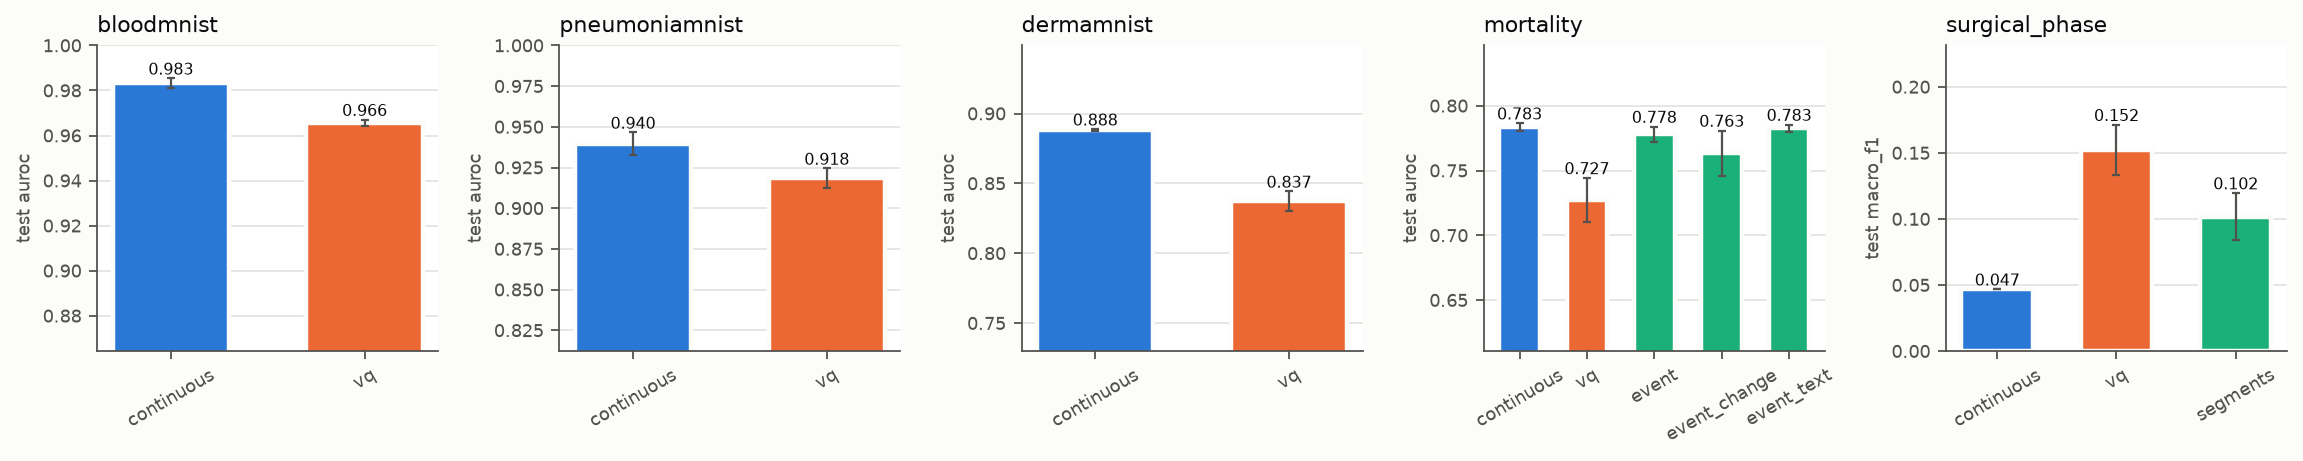
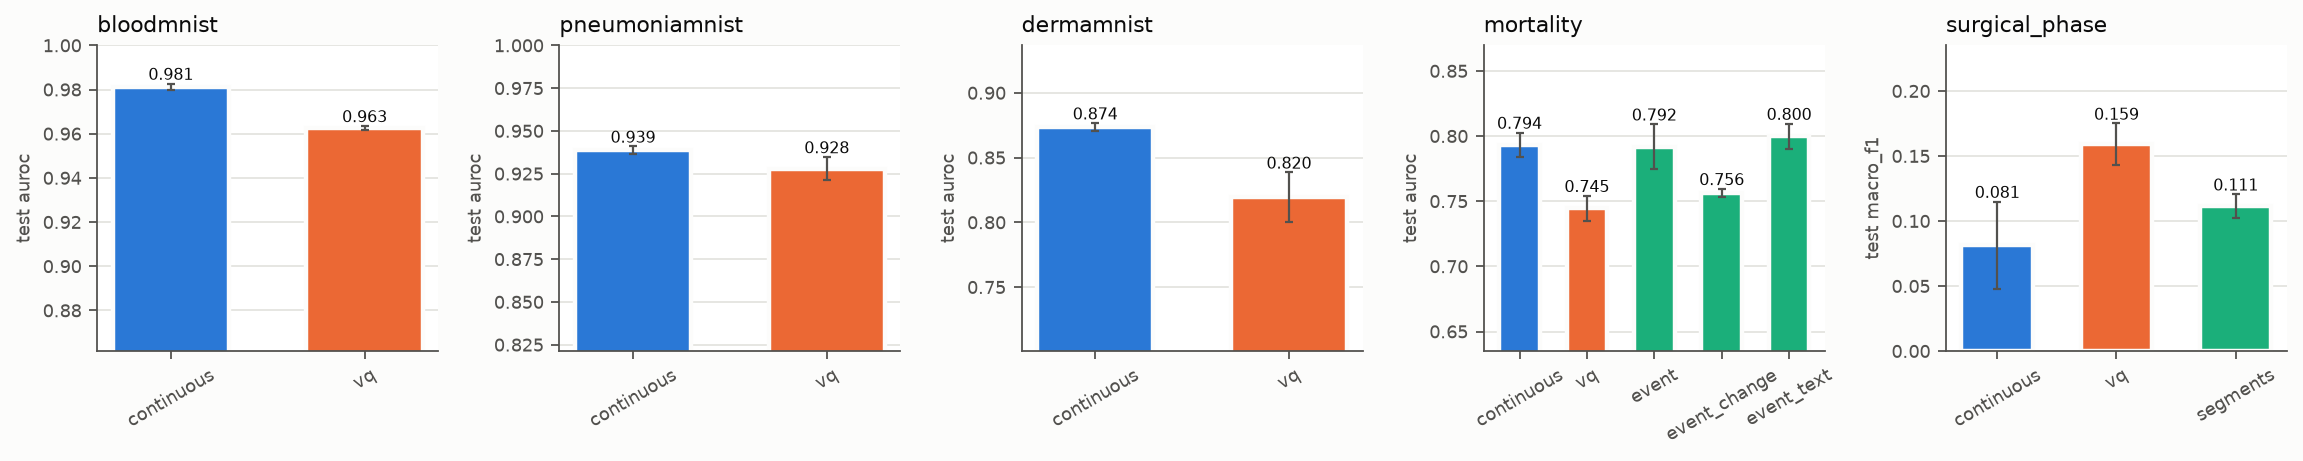
feat: class-weighted loss and validation-chosen threshold for downstream tasks; re-run results

diff --git a/demo/index.html b/demo/index.html
@@ -279,7 +279,7 @@ function imageView(d, title) {
 function predView(d) {
   const p = d.prediction;
   if (!p) return `<div class="card muted">The classifier for this image type is not trained yet (run <code>scripts/train_demo_classifiers.py</code>).</div>`;
-  const top = p.probs[0], ok = d.label ? top.label === d.label : null;
+  const top = p.probs.find(r => r.label === p.predicted) || p.probs[0], ok = d.label ? top.label === d.label : null;
   return `<div class="card"><h3>Classifier: reading only the ${p.n_tokens} VQ tokens</h3>
     <div class="pred">
       <div class="pred-main">

diff --git a/src/medical_tokenizer/downstream/train.py b/src/medical_tokenizer/downstream/train.py
@@ -11,7 +11,7 @@ import torch.nn.functional as F
 
 from ..utils.device import device, to_device
 from .dataset import UnifiedTokenDataset, length_bucketed_batches
-from .tasks import DownstreamTask, metrics
+from .tasks import DownstreamTask, balanced_class_weight, metrics, pick_threshold
 
 
 @torch.no_grad()
@@ -29,9 +29,12 @@ def predict(model, ds: UnifiedTokenDataset, task: str, bs: int = 128) -> tuple[n
 
 
 def fit(model, data: dict[str, dict], tasks: dict[str, DownstreamTask], epochs: int = 20, batch_size: int = 64,
-        lr: float = 5e-4, weight_decay: float = 0.01, patience: int = 5, seed: int = 0, log=print) -> dict:
+        lr: float = 5e-4, weight_decay: float = 0.01, patience: int = 5, seed: int = 0,
+        class_weight: str | None = None, threshold: str | None = None, log=print) -> dict:
     """data: task -> {"train": ds, "val": ds, "test": ds}. Minibatches of all tasks are interleaved each epoch.
-    Model selection: mean validation select_metric across tasks; the best state is restored before testing."""
+    Model selection: mean validation select_metric across tasks; the best state is restored before testing.
+    class_weight="balanced": cross-entropy weighted by inverse training-class frequency (overrides task.class_weight).
+    threshold="val_balanced_acc": binary tasks are tested at the cut-off that maximises validation balanced accuracy."""
     rng = np.random.default_rng(seed)
     torch.manual_seed(seed)
     dev = device()
@@ -39,6 +42,12 @@ def fit(model, data: dict[str, dict], tasks: dict[str, DownstreamTask], epochs: 
     opt = torch.optim.AdamW(model.parameters(), lr=lr, weight_decay=weight_decay)
     steps = epochs * sum(math.ceil(len(d["train"]) / batch_size) for d in data.values())
     sched = torch.optim.lr_scheduler.OneCycleLR(opt, max_lr=lr, total_steps=max(steps, 1), pct_start=0.1)
+    if class_weight not in (None, "balanced"):
+        raise ValueError(f"class_weight must be null or 'balanced', got {class_weight!r}")
+    if threshold not in (None, "val_balanced_acc"):
+        raise ValueError(f"threshold must be null or 'val_balanced_acc', got {threshold!r}")
+    weights = {k: balanced_class_weight(d["train"].labels(), tasks[k].n_classes) if class_weight == "balanced"
+               else tasks[k].class_weight for k, d in data.items()}
     best, best_state, bad, hist = -math.inf, None, 0, []
     for ep in range(epochs):
         model.train()
@@ -50,7 +59,7 @@ def fit(model, data: dict[str, dict], tasks: dict[str, DownstreamTask], epochs: 
         for k, idx in plan:
             ds = data[k]["train"]
             b = to_device(ds.collate([ds[i] for i in idx]), dev)
-            w = tasks[k].class_weight
+            w = weights[k]
             loss = F.cross_entropy(model(b, k), b["y"],
                                    weight=None if w is None else torch.tensor(w, dtype=torch.float32, device=dev))
             opt.zero_grad()
@@ -74,7 +83,9 @@ def fit(model, data: dict[str, dict], tasks: dict[str, DownstreamTask], epochs: 
                 break
     if best_state is not None:
         model.load_state_dict(best_state)
-    test = {k: metrics(tasks[k], *predict(model, d["test"], k)) for k, d in data.items()}
+    thr = {k: pick_threshold(tasks[k], *predict(model, d["val"], k)) if threshold else None for k, d in data.items()}
+    test = {k: metrics(tasks[k], *predict(model, d["test"], k), threshold=thr[k]) for k, d in data.items()}
     model.cpu()
     return {"best_val_score": best, "test": test, "history": hist, "epochs_run": len(hist),
+            "class_weight": weights, "threshold": thr,
             "params": int(sum(p.numel() for p in model.parameters()))}

diff --git a/scripts/modal_rerun.py b/scripts/modal_rerun.py
@@ -5,6 +5,9 @@
     # run the four plans of configs/rerun_gpu/ in parallel, then pull the results back
     modal run scripts/modal_rerun.py::rerun
     python scripts/modal_rerun.py merge          # untar logs/modal_results/*.tar over experiments/
+    # downstream-only re-run on the existing tokenizers, then merge just those results
+    modal run scripts/modal_rerun.py::rerun --only ds_image,ds_mortality,ds_phase
+    python scripts/modal_rerun.py merge ds_image ds_mortality ds_phase
 
 Each job unpacks data + experiments onto the container's local disk, runs one plan with
 `medical_tokenizer.pipeline`, and writes a tarball of every file it created or changed
@@ -21,7 +24,8 @@ import modal
 
 ROOT = os.path.dirname(os.path.dirname(os.path.abspath(__file__)))
 VOL = modal.Volume.from_name("medtok", create_if_missing=True)
-JOBS = {"image": "gpu", "mortality": "gpu", "phase": "gpu", "evaluate": "cpu"}   # plan -> container kind
+JOBS = {"image": "gpu", "mortality": "gpu", "phase": "gpu", "evaluate": "cpu",   # plan -> container kind
+        "ds_image": "gpu", "ds_mortality": "gpu", "ds_phase": "gpu"}               # downstream-only (no tokenizer training)
 
 image = (
     modal.Image.debian_slim(python_version="3.12")
@@ -81,7 +85,7 @@ def upload():
 
 @app.local_entrypoint()
 def rerun(only: str = ""):
-    plans = [p for p in JOBS if not only or p in only.split(",")]
+    plans = [p for p in JOBS if p in only.split(",")] if only else [p for p in JOBS if not p.startswith("ds_")]
     calls = [(run_gpu if JOBS[p] == "gpu" else run_cpu).spawn(p) for p in plans]
     for p, c in zip(plans, calls):
         try:
@@ -99,14 +103,14 @@ def rerun(only: str = ""):
             print(f"{p}: no results ({type(e).__name__}: {e})", flush=True)
 
 
-def merge() -> None:
+def merge(plans: list[str] | None = None) -> None:
     d = os.path.join(ROOT, "logs", "modal_results")
-    for p in JOBS:
+    for p in plans or JOBS:
         f = os.path.join(d, f"{p}.tar")
         if os.path.exists(f):
             _sh(f"cd {ROOT} && tar -xf {f}")
             print("merged", p)
 
 
-if __name__ == "__main__" and sys.argv[1:] == ["merge"]:
-    merge()
+if __name__ == "__main__" and sys.argv[1:2] == ["merge"]:
+    merge(sys.argv[2:])          # e.g. `merge ds_image ds_mortality ds_phase`; no names = every plan

diff --git a/src/medical_tokenizer/downstream/tasks.py b/src/medical_tokenizer/downstream/tasks.py
@@ -38,12 +38,34 @@ TASKS = {
 }
 
 
-def metrics(task: DownstreamTask, y: np.ndarray, logits: np.ndarray) -> dict:
+def balanced_class_weight(y: np.ndarray, n_classes: int) -> list[float]:
+    """n / (K * count_c) from the training labels, so every class carries the same total loss
+    (sklearn's class_weight="balanced"). Classes absent from training get weight 0."""
+    counts = np.bincount(y, minlength=n_classes).astype(float)
+    return [len(y) / (n_classes * c) if c else 0.0 for c in counts]
+
+
+def pick_threshold(task: DownstreamTask, y: np.ndarray, logits: np.ndarray) -> float | None:
+    """Binary tasks: the P(class 1) cut-off that maximises balanced accuracy (Youden's J) on the given
+    split -- call it on validation, never on test. Multiclass tasks keep argmax (returns None)."""
+    if task.kind != "binary" or len(np.unique(y)) < 2:
+        return None
+    from sklearn.metrics import roc_curve
+    p1 = torch.softmax(torch.as_tensor(logits, dtype=torch.float32), -1).numpy()[:, 1]
+    fpr, tpr, thr = roc_curve(y, p1)
+    return float(min(thr[np.argmax(tpr - fpr)], 1.0))
+
+
+def metrics(task: DownstreamTask, y: np.ndarray, logits: np.ndarray, threshold: float | None = None) -> dict:
+    """Threshold-free metrics (AUROC, AUPRC) use the probabilities; acc / balanced_acc / macro_f1 use argmax,
+    or for binary tasks `P(class 1) >= threshold` when a (validation-chosen) threshold is given."""
     p = torch.softmax(torch.as_tensor(logits, dtype=torch.float32), -1).numpy()
-    pred = p.argmax(1)
+    pred = (p[:, 1] >= threshold).astype(int) if threshold is not None and task.kind == "binary" else p.argmax(1)
     out = {"acc": float((pred == y).mean()), "balanced_acc": float(balanced_accuracy_score(y, pred)),
            "macro_f1": float(f1_score(y, pred, average="macro", labels=np.arange(task.n_classes), zero_division=0)),
            "n": int(len(y))}
+    if threshold is not None and task.kind == "binary":
+        out["threshold"] = float(threshold)
     if task.kind == "binary":
         if len(np.unique(y)) == 2:
             out["auroc"] = float(roc_auc_score(y, p[:, 1]))

diff --git a/scripts/train_demo_classifiers.py b/scripts/train_demo_classifiers.py
@@ -43,11 +43,11 @@ def train(task_name: str, seed: int = 0) -> None:
     t0 = time.time()
     res = fit(model, data, {task_name: task}, epochs=tr.get("epochs", 20), batch_size=tr.get("batch_size", 64),
               lr=tr.get("lr", 5e-4), weight_decay=tr.get("weight_decay", 0.01), patience=tr.get("patience", 5),
-              seed=seed, log=lambda s: print(s, flush=True))
+              class_weight=tr.get("class_weight"), threshold=tr.get("threshold"), seed=seed, log=lambda s: print(s, flush=True))
     os.makedirs(OUT, exist_ok=True)
     path = os.path.join(OUT, f"{task_name}_vq.pt")
     torch.save({"cfg": model.cfg, "state": model.state_dict(), "test": res["test"][task_name], "seed": seed,
-                "epochs_run": res["epochs_run"], "config": cfg["_config_path"],
+                "threshold": res["threshold"][task_name], "epochs_run": res["epochs_run"], "config": cfg["_config_path"],
                 "tokenizer_run": entry["tokenizer_run"]}, path)
     m = res["test"][task_name]
     print(f"{task_name}: saved {path} | test auroc {m.get('auroc', float('nan')):.4f} macro_f1 {m['macro_f1']:.4f} "

diff --git a/src/medical_tokenizer/downstream/__main__.py b/src/medical_tokenizer/downstream/__main__.py
@@ -55,9 +55,10 @@ def run_downstream(cfg: dict) -> Run:
         tr = cfg.get("train", {})
         res = fit(model, data, tasks, epochs=tr.get("epochs", 20), batch_size=tr.get("batch_size", 64),
                   lr=tr.get("lr", 5e-4), weight_decay=tr.get("weight_decay", 0.01), patience=tr.get("patience", 5),
-                  seed=seed, log=lambda s: print(s, flush=True))
+                  class_weight=tr.get("class_weight"), threshold=tr.get("threshold"), seed=seed, log=lambda s: print(s, flush=True))
         run.log({"seed": seed, "test": res["test"], "best_val_score": res["best_val_score"],
-                 "epochs_run": res["epochs_run"], "params": res["params"]}, file="seeds.jsonl")
+                 "epochs_run": res["epochs_run"], "params": res["params"],
+                 "class_weight": res["class_weight"], "threshold": res["threshold"]}, file="seeds.jsonl")
         run.save_json(f"history_seed{seed}.json", res["history"])
         per_seed.append(res)
     agg = {}

diff --git a/src/medical_tokenizer/report.py b/src/medical_tokenizer/report.py
@@ -147,7 +147,8 @@ DS = [("bloodmnist", ["ds_bloodmnist_continuous", "ds_bloodmnist_vq"], ["auroc",
 def downstream_table(missing: list) -> Table:
     t = Table("Downstream tasks (test set, mean ± std over seeds)",
               ["task", "experiment", "seq len (train mean)", "metric 1", "metric 2", "metric 3", "seeds"],
-              "Fixed splits and an identical model / training budget per task. Images: AUROC and macro-F1; "
+              "Fixed splits and an identical model / training budget per task; class-weighted loss, binary-task "
+              "cut-off chosen on validation. Images: AUROC and macro-F1; "
               "ICU mortality: AUROC and AUPRC. Text in ds_mortality_event_text is synthetic (admission-time fields "
               "only, no outcome). Surgical phase uses Cataract-101 and is not comparable with Cholec80 results.")
     for task, names, keys in DS + [("multitask", ["ds_multitask_vq"], None)]:

diff --git a/demo/server.py b/demo/server.py
@@ -142,7 +142,9 @@ def classify(x: np.ndarray, task: str) -> dict | None:
     seq = serialize(Sample("demo", [Segment("image", x)]), {"image": S.img["vq"]})
     with torch.no_grad():
         p = torch.softmax(m(collate([seq], None), task), -1)[0].numpy()
-    return {"task": task, "probs": [{"label": CLASSES[task][k], "p": float(p[k])} for k in np.argsort(-p)],
+    thr = ck.get("threshold")   # binary tasks: cut-off chosen on validation (same rule as the thesis runs)
+    top = int(p[1] >= thr) if thr is not None and len(p) == 2 else int(p.argmax())
+    return {"task": task, "predicted": CLASSES[task][top], "threshold": thr, "probs": [{"label": CLASSES[task][k], "p": float(p[k])} for k in np.argsort(-p)],
             "test": {k: ck["test"].get(k) for k in ("auroc", "macro_f1", "acc")}, "n_test": ck["test"].get("n"),
             "seed": ck["seed"], "n_tokens": len(seq)}
 

diff --git a/reports/RESULTS.md b/reports/RESULTS.md
@@ -42,27 +42,27 @@ Cataract-101 (10 phases, video-level split) replaces Cholec80; results are not c
 
 ### Downstream tasks (test set, mean ± std over seeds)
 
-Fixed splits and an identical model / training budget per task. Images: AUROC and macro-F1; ICU mortality: AUROC and AUPRC. Text in ds_mortality_event_text is synthetic (admission-time fields only, no outcome). Surgical phase uses Cataract-101 and is not comparable with Cholec80 results.
+Fixed splits and an identical model / training budget per task; class-weighted loss, binary-task cut-off chosen on validation. Images: AUROC and macro-F1; ICU mortality: AUROC and AUPRC. Text in ds_mortality_event_text is synthetic (admission-time fields only, no outcome). Surgical phase uses Cataract-101 and is not comparable with Cholec80 results.
 
 | task | experiment | seq len (train mean) | metric 1 | metric 2 | metric 3 | seeds |
 |---|---|---|---|---|---|---|
-| bloodmnist | ds_bloodmnist_continuous | 54.000 | auroc 0.983 ± 0.002 | macro_f1 0.838 ± 0.015 | acc 0.859 ± 0.012 | 3 |
-| bloodmnist | ds_bloodmnist_vq | 61.000 | auroc 0.966 ± 0.001 | macro_f1 0.759 ± 0.007 | acc 0.795 ± 0.008 | 3 |
-| pneumoniamnist | ds_pneumoniamnist_continuous | 54.000 | auroc 0.940 ± 0.007 | macro_f1 0.838 ± 0.008 | acc 0.859 ± 0.007 | 3 |
-| pneumoniamnist | ds_pneumoniamnist_vq | 61.000 | auroc 0.918 ± 0.006 | macro_f1 0.785 ± 0.002 | acc 0.817 ± 0.003 | 3 |
-| dermamnist | ds_dermamnist_continuous | 54.000 | auroc 0.888 ± 0.001 | macro_f1 0.363 ± 0.005 | acc 0.723 ± 0.001 | 3 |
-| dermamnist | ds_dermamnist_vq | 61.000 | auroc 0.837 ± 0.007 | macro_f1 0.274 ± 0.023 | acc 0.688 ± 0.002 | 3 |
-| mortality | ds_mortality_continuous | 61.026 | auroc 0.783 ± 0.003 | auprc 0.428 ± 0.003 | balanced_acc 0.534 ± 0.033 | 3 |
-| mortality | ds_mortality_vq | 73.026 | auroc 0.727 ± 0.017 | auprc 0.324 ± 0.022 | balanced_acc 0.519 ± 0.010 | 3 |
-| mortality | ds_mortality_event | 775.012 | auroc 0.778 ± 0.006 | auprc 0.425 ± 0.021 | balanced_acc 0.628 ± 0.004 | 3 |
-| mortality | ds_mortality_event_change | 542.872 | auroc 0.763 ± 0.018 | auprc 0.366 ± 0.035 | balanced_acc 0.567 ± 0.043 | 3 |
-| mortality | ds_mortality_event_text | 830.342 | auroc 0.783 ± 0.003 | auprc 0.436 ± 0.027 | balanced_acc 0.611 ± 0.005 | 3 |
-| surgical_phase | ds_phase_continuous | 133.000 | macro_f1 0.047 ± 0.000 | acc 0.306 ± 0.000 | balanced_acc 0.100 ± 0.000 | 3 |
-| surgical_phase | ds_phase_vq | 137.000 | macro_f1 0.152 ± 0.019 | acc 0.246 ± 0.020 | balanced_acc 0.156 ± 0.019 | 3 |
-| surgical_phase | ds_phase_segments | 10.669 | macro_f1 0.102 ± 0.018 | acc 0.257 ± 0.014 | balanced_acc 0.117 ± 0.009 | 3 |
-| bloodmnist | ds_multitask_vq (joint) | 61.000 | auroc 0.962 ± 0.001 | – | – | 3 |
-| mortality | ds_multitask_vq (joint) | 73.026 | auroc 0.729 ± 0.006 | – | – | 3 |
-| surgical_phase | ds_multitask_vq (joint) | 137.000 | macro_f1 0.137 ± 0.007 | – | – | 3 |
+| bloodmnist | ds_bloodmnist_continuous | 54.000 | auroc 0.981 ± 0.001 | macro_f1 0.820 ± 0.008 | acc 0.840 ± 0.008 | 3 |
+| bloodmnist | ds_bloodmnist_vq | 61.000 | auroc 0.963 ± 0.001 | macro_f1 0.749 ± 0.001 | acc 0.779 ± 0.001 | 3 |
+| pneumoniamnist | ds_pneumoniamnist_continuous | 54.000 | auroc 0.939 ± 0.002 | macro_f1 0.868 ± 0.003 | acc 0.881 ± 0.000 | 3 |
+| pneumoniamnist | ds_pneumoniamnist_vq | 61.000 | auroc 0.928 ± 0.007 | macro_f1 0.807 ± 0.017 | acc 0.832 ± 0.011 | 3 |
+| dermamnist | ds_dermamnist_continuous | 54.000 | auroc 0.874 ± 0.003 | macro_f1 0.372 ± 0.003 | acc 0.546 ± 0.005 | 3 |
+| dermamnist | ds_dermamnist_vq | 61.000 | auroc 0.820 ± 0.019 | macro_f1 0.295 ± 0.019 | acc 0.529 ± 0.028 | 3 |
+| mortality | ds_mortality_continuous | 61.026 | auroc 0.794 ± 0.009 | auprc 0.437 ± 0.008 | balanced_acc 0.711 ± 0.019 | 3 |
+| mortality | ds_mortality_vq | 73.026 | auroc 0.745 ± 0.010 | auprc 0.329 ± 0.036 | balanced_acc 0.677 ± 0.007 | 3 |
+| mortality | ds_mortality_event | 775.012 | auroc 0.792 ± 0.017 | auprc 0.455 ± 0.021 | balanced_acc 0.683 ± 0.031 | 3 |
+| mortality | ds_mortality_event_change | 542.872 | auroc 0.756 ± 0.003 | auprc 0.346 ± 0.016 | balanced_acc 0.666 ± 0.004 | 3 |
+| mortality | ds_mortality_event_text | 830.342 | auroc 0.800 ± 0.010 | auprc 0.440 ± 0.014 | balanced_acc 0.711 ± 0.026 | 3 |
+| surgical_phase | ds_phase_continuous | 133.000 | macro_f1 0.081 ± 0.034 | acc 0.231 ± 0.037 | balanced_acc 0.130 ± 0.049 | 3 |
+| surgical_phase | ds_phase_vq | 137.000 | macro_f1 0.159 ± 0.016 | acc 0.219 ± 0.016 | balanced_acc 0.163 ± 0.022 | 3 |
+| surgical_phase | ds_phase_segments | 10.669 | macro_f1 0.111 ± 0.009 | acc 0.140 ± 0.013 | balanced_acc 0.133 ± 0.009 | 3 |
+| bloodmnist | ds_multitask_vq (joint) | 61.000 | auroc 0.958 ± 0.005 | – | – | 3 |
+| mortality | ds_multitask_vq (joint) | 73.026 | auroc 0.752 ± 0.019 | – | – | 3 |
+| surgical_phase | ds_multitask_vq (joint) | 137.000 | macro_f1 0.118 ± 0.026 | – | – | 3 |
 
 ### Image codebook size (5 epochs)
 

diff --git a/docs/experiments.md b/docs/experiments.md
@@ -34,6 +34,9 @@ All three time-series representations carry the same discrete static block (age,
 3. **Downstream validation** (`python -m medical_tokenizer.downstream`). The same `UnifiedTokenTransformer` (d = 128, 2 pre-LN layers, 4 heads, 2.78 M parameters, of which 1.77 M are the 13,824 × 128 token embedding) is trained from scratch on the token shards:
    - AdamW 5e-4, one-cycle schedule, batch 32, up to 20 epochs;
    - early stopping on the validation metric (patience 5), best-validation checkpoint tested once;
+   - class-weighted cross-entropy: each class is weighted by n / (K · count) from the training labels, so rare classes (e.g. DermaMNIST melanoma, ICU deaths ≈ 14 %) count as much as common ones;
+   - binary tasks (PneumoniaMNIST, ICU mortality): the decision cut-off on P(positive) is the one that maximises balanced accuracy on the **validation** split, then applied unchanged to test. AUROC / AUPRC do not depend on it; accuracy, balanced accuracy and macro-F1 do. Multiclass tasks use argmax;
+   - both rules were approved by the supervisor on 2026-10-12 and apply to every representation alike;
    - training seconds per epoch are recorded as a cost measure (self-attention cost grows with the square of sequence length);
    - **3 seeds**, reported as mean ± std.
 
